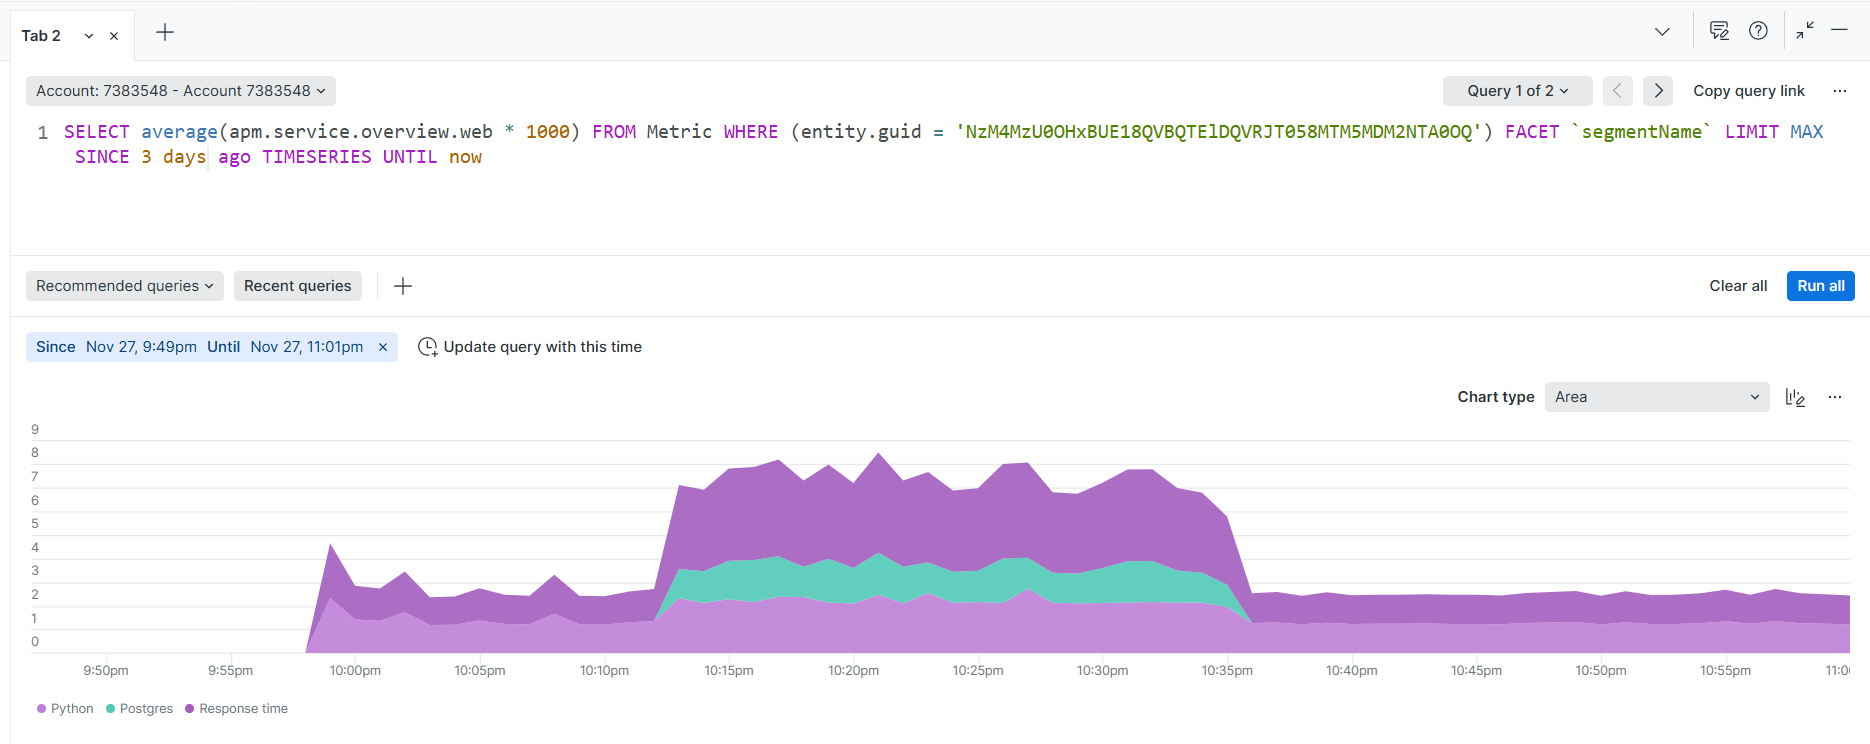
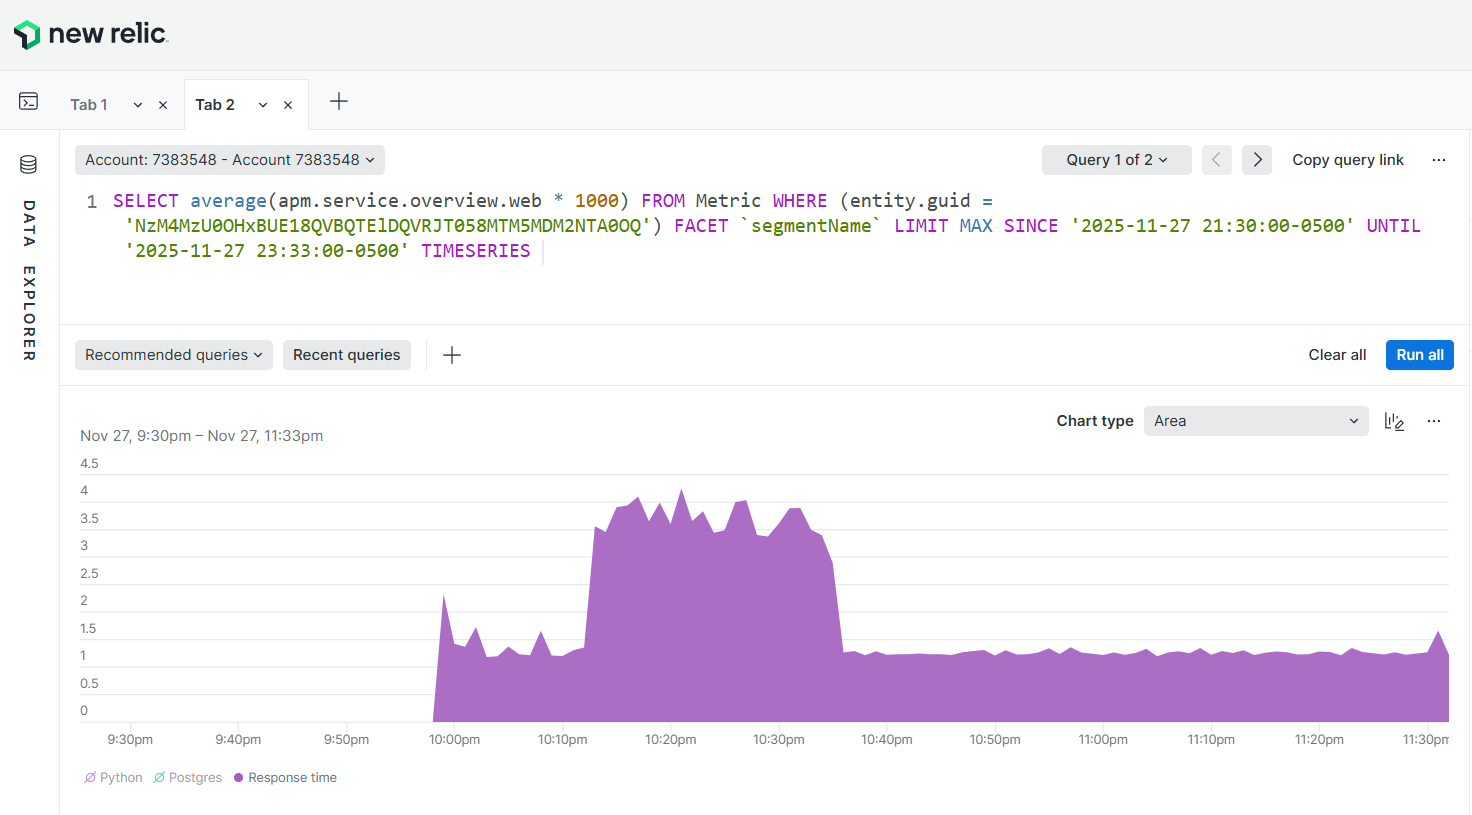
documentación monitoreo continuo

diff --git a/entregas/entrega - IV/entrega4.md b/entregas/entrega - IV/entrega4.md
@@ -32,23 +32,104 @@ La petición puede ser aleatoriamente una petición correcta o una petición con
 
 ![test](./images/test.PNG)
 
+Inmediatamente después de creado el email en la lista negra, este es consultado, así logramos que la petición abarque ambas funcionalidades de la Blacklist.
+
 Finalmente se apunta al balanceador de carga y se dispara un conjunto de peticiones en bucle (en este caso mil quinientas)
 
 ![test2](./images/test_2.PNG)
+
 
 Los resultados de la prueba los veremos a continuación.
 
 ## 1. Capacidades de monitoreo de desempeño a nivel de aplicación
 
-![](./images)
-![](./images)
-![](./images)
-![](./images)
-![](./images)
-![](./images)
-![](./images)
-![](./images)
+Al abrir el servicio de monitoreo de la aplicación en New Relic lo primero que observamos es la sección "Summary". Esta sección cuenta con los gráficos más importantes del monitoreo: Tiempo de respuesta, Rendimiento, Apex Score e Indice de errores.
 
+Aquí podemos ver que para este ejercicio, la aplicación se levantó sobre las 10:00 pm, las pruebas (1500 peticiones aleatorias a la blacklist) se iniciaron sobre las 10:11pm y finalizaron al rededor de las 10:37 pm.
+
+![summary](./images/newrelic_summary.PNG)
+
+Una de las funcionalidades importantes que encontramos en la aplicación es el *View Query* que permite personalizar consultas para ver rangos de tiempo o servicios específicos. Esto es de gran utilidad para poder limpiar los resultados. Por ejemplo en este caso utilizamos la consulta para poder ver únicamente los resultados en el intervalo de tiempo que se realizó la prueba que se está documentando en este ejercicio.
+
+En la siguiente gráfica podemos ver el tiempo de respuesta total de la aplicación, el cual es el resultado de la suma del tiempo de respuesta del microservicio de python y la base de datos de postgres. 
+
+![time response](./images/chart_time_response.PNG)
+
+En la imagen anterior podemos ver que la aplicación está generando constantemente respuestas de 1 milisegundo (esto corresponde al estado de comprobación de salud del servicio). 
+
+También podemos apreciar que durante la ejecución de las 1500 peticiones, la aplicación tuvo un tiempo medio de respuesta medio de 3.5 a 4 milisegundos con un pico de 4.24ms a las 10:21 pm
+
+Ahora ajustando un poco la configuración de la presentación (con las opciones de la esquina inferior izquierda) podemos separar el tiempo de respuesta entre el tiempo de la base de datos (Postgres) y el microservicio (Python), como se ve en la imagen siguiente.
+
+![time response_2](./images/chart_time_response_2.PNG)
+
+### Tiempo de respuesta de la aplicación: 
+
+Enfoncandonos en el tiempo de respuesta de la aplicación, vemos que el microservicio tiene un tiempo de respuesta promedio de 1 ms para la comprobación de estado de salud y que este tiempo de respuesta pasa a 2ms durante la ejecución de peticiones. 
+
+El tiempo de respuesta máximo se registró a las 10:27 pm y fue de 2.73 ms.
+
+![response app](./images/tr_app.PNG)
+
+Otra forma de ver los tiempos de respuesta de la aplicación es a través de la opción "Transactions" la cual desglosa el tiempo de respuesta total entre las transacciones realizadas.
+
+Aquí podemos ver que el 57% del tiempo de respuesta total fue consumido por la transacción de registro (la que ejecuta registros del email en la lista negra)
+
+![transactions](./images/transactions.PNG)
+
+### Tiempo de respuesta de la base de datos
+
+Enfocandonos en la base de datos, vemos que esta no tuvo actividad durante las peticiones de estado de salud (lógicamente) sino unicamente durante la ejecución de las pruebas. 
+
+Tenemos un tiempo de respuesta de entre 1.2 y 1.8 ms. El tiempo de respuesta máximo fue de 1.87 ms.
+
+
+![bd_time](./images/tr_bd.PNG)
+
+Otra forma de ver los tiempos de respuesta de la base de datos (también del microservicio) es a través de la opción "Breakdown Table". Aquí podemos apreciar por ejemplo las diferencias en los tiempos de respuesta de la base de datos dependiendo del tipo de transacción. Vemos que las transacciones de consulta SELECT tiene un tiempo de respuesta mayor (1.8ms promedio) que las instrucciones de escritura COMMIT e INSERT (1.0 y 0.8 ms).
+
+![breakdown table](./images/bd_table.PNG)
+
+## 2. Capacidades de Monitoreo del Apdex
+
+![apdex](./images/apdex.PNG)
+
+## 3. Capacidades de Monitoreo y Registro de Errores
+
+![errores](./images/errores.PNG)
+
+## 4. Capacidades de configuración de Alertas
+
+En New Relic al igual que los reportes de monitoreo, las alertas se pueden configurar como comandos NRQL Query. Sin embargo la aplicación tiene una forma "guiada" de generar estas alertas.
+
+Hay tres métricas por defecto en la opción guiada: El tiempo de respuesta, el rendimiento y el ratio de error. 
+
+![alert config](./images/config_alert.PNG)
+
+Para hacer un ejemplo vamos a tomar la unidad de medida como 1 milisegundo en tiempo de respuesta. 
+
+Y vamos a configurar una alerta estática que se active si la unidad de medida se mantiene por encima de 2 (milisegundos) por más de 1 minuto. 
+
+Nota: También se pueden configurar alertas dinámicas que se disparen no a través de un límite crítico sino a través de una desviación en la unidad de medida.
+
+![alerta estatica](./images/limite.PNG)
+
+La notificación de la alerta se puede configurar al correo electrónico, a Jira, Slack, al Celular, entre otros.
+
+![notificacion](./images/notificacion.PNG)
+
+
+Como ya sabemos, nuestras pruebas de estrés en ejecución, tienen un tiempo de respuesta promedio de 4 segundos. Por lo que bastará para activar nuestra alerta.
+
+Reiniciamos el ciclo de pruebas con la alerta configurada y tras un minuto podemos ver que el summary ya muestra un cambio de estado (hexagono rojo) y un label de "Alertas críticas"
+
+![alert](./images/summary_alert.PNG)
+
+Igualmente, recibimos la notificación en el correo
+
+![notificacion alerta](./images/notificacion_correo.PNG)
+
+Con esto finaliza la documentación del monitoreo continuo.
 
 ## Links de referencia
 - Video: https://uniandes-my.sharepoint.com/:v:/g/personal/d_andrades_uniandes_edu_co/IQAHKH8gq0jfQo1smJmv8KLZASAL56Hb-Y28ffiXBZ6RTmc
